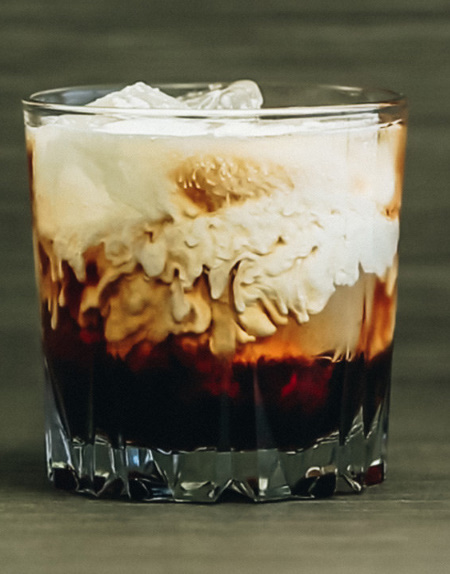
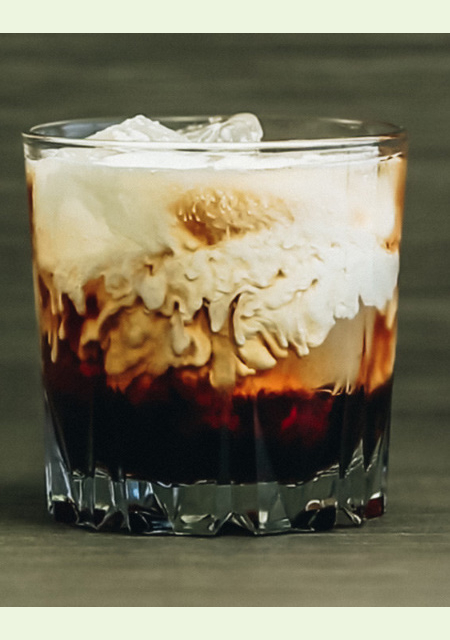
add AWS link to readme, change some images to righ size

diff --git a/src/util/helperFunctions.js b/src/util/helperFunctions.js
@@ -31,19 +31,19 @@ export { capitalise, joinWithAnd, randomNum, gen3UniqueRandomNums }
   name: "drinkName",
   dummyId: 0,
   ingredients: [
-    ["ingredientName",4, "unit"],
-    ["ingredientName",4, "unit"],
+    ["ingredientName", 4, "unit"],
+    ["rum", 4, "cl"],
     ["fresh ginger", null, null],
     ["salt", null, "pinch"],
   ],
-  imageUrl:"vodkaMartini.jpg",
+  imageUrl:"drinkImageUrl.jpg",
   glass: "glassType",
   method: ["method1","method2"],
   garnish: ["garnish1","garnish2"],
   categories: ["category1", "category2"],
-  liquor: [liquor1, liquor 2]
+  liquor: ["liquor1", "liquor2"]
   page: 1,
-  credits:[["entity1", "forWhatImg"], ["entity1", "forWhat"]],
+  credits:[["entity1", "imageCredit"], ["entity2", "recipeCredit"]],
   steps: [
    "step1",
    "step2",

diff --git a/src/allDrinks.js b/src/allDrinks.js
@@ -4,10 +4,11 @@
  * - ingredients are all small case
  */
 
- //By the two testdrinks not having a dummyid, I 
- //can avoid showing the test drinks in the results altogether. As soon as I give
- //them dummyIds they start being part of the search results
-//keywords: drinkName, test DrinkName
+/*How do I prevent test drinks from showing up to the frontend user?
+By the two testdrinks not having a dummyid, I 
+can avoid showing the test drinks in the results altogether. As soon as I give
+them dummyIds they start being part of the search results*/
+
 const drinks = [
   {
     name: "drinkName",

diff --git a/README.md b/README.md
@@ -11,6 +11,8 @@ CONTENTS OF THIS FILE
 ## Introduction
 [Mixer-logic](http://mixer-logic.surge.sh) is a webpage (SPA) that can be used to search for different cocktails and their recipes. The search can be done based on name, method and in the future what alcohols it contains.
 
+[Static Frontend on AWS](https://completephase1.dw8oebx33y2ox.amplifyapp.com/)
+
 ## How to use?
 On the page, the user selects what criteria they want to search by, name or method, and they type in their search query into the search bar and voilà, cocktail results. 
 There is a randomly generated list of featured drinks whenever there has been no search done or there were no results returned for what the user searched.
@@ -67,3 +69,8 @@ designed magazine/booklet by [Finlandia Vodka](https://www.finlandia.com/en/) wi
  * To be added: Login
  * To be added: Save favourite drinks
  
+
+
+## Phases of development
+* [Phase 1 - Static frontend site](http://mixer-logic.surge.sh/) --- [Backup deployment on AWS](https://completephase1.dw8oebx33y2ox.amplifyapp.com/)
+
